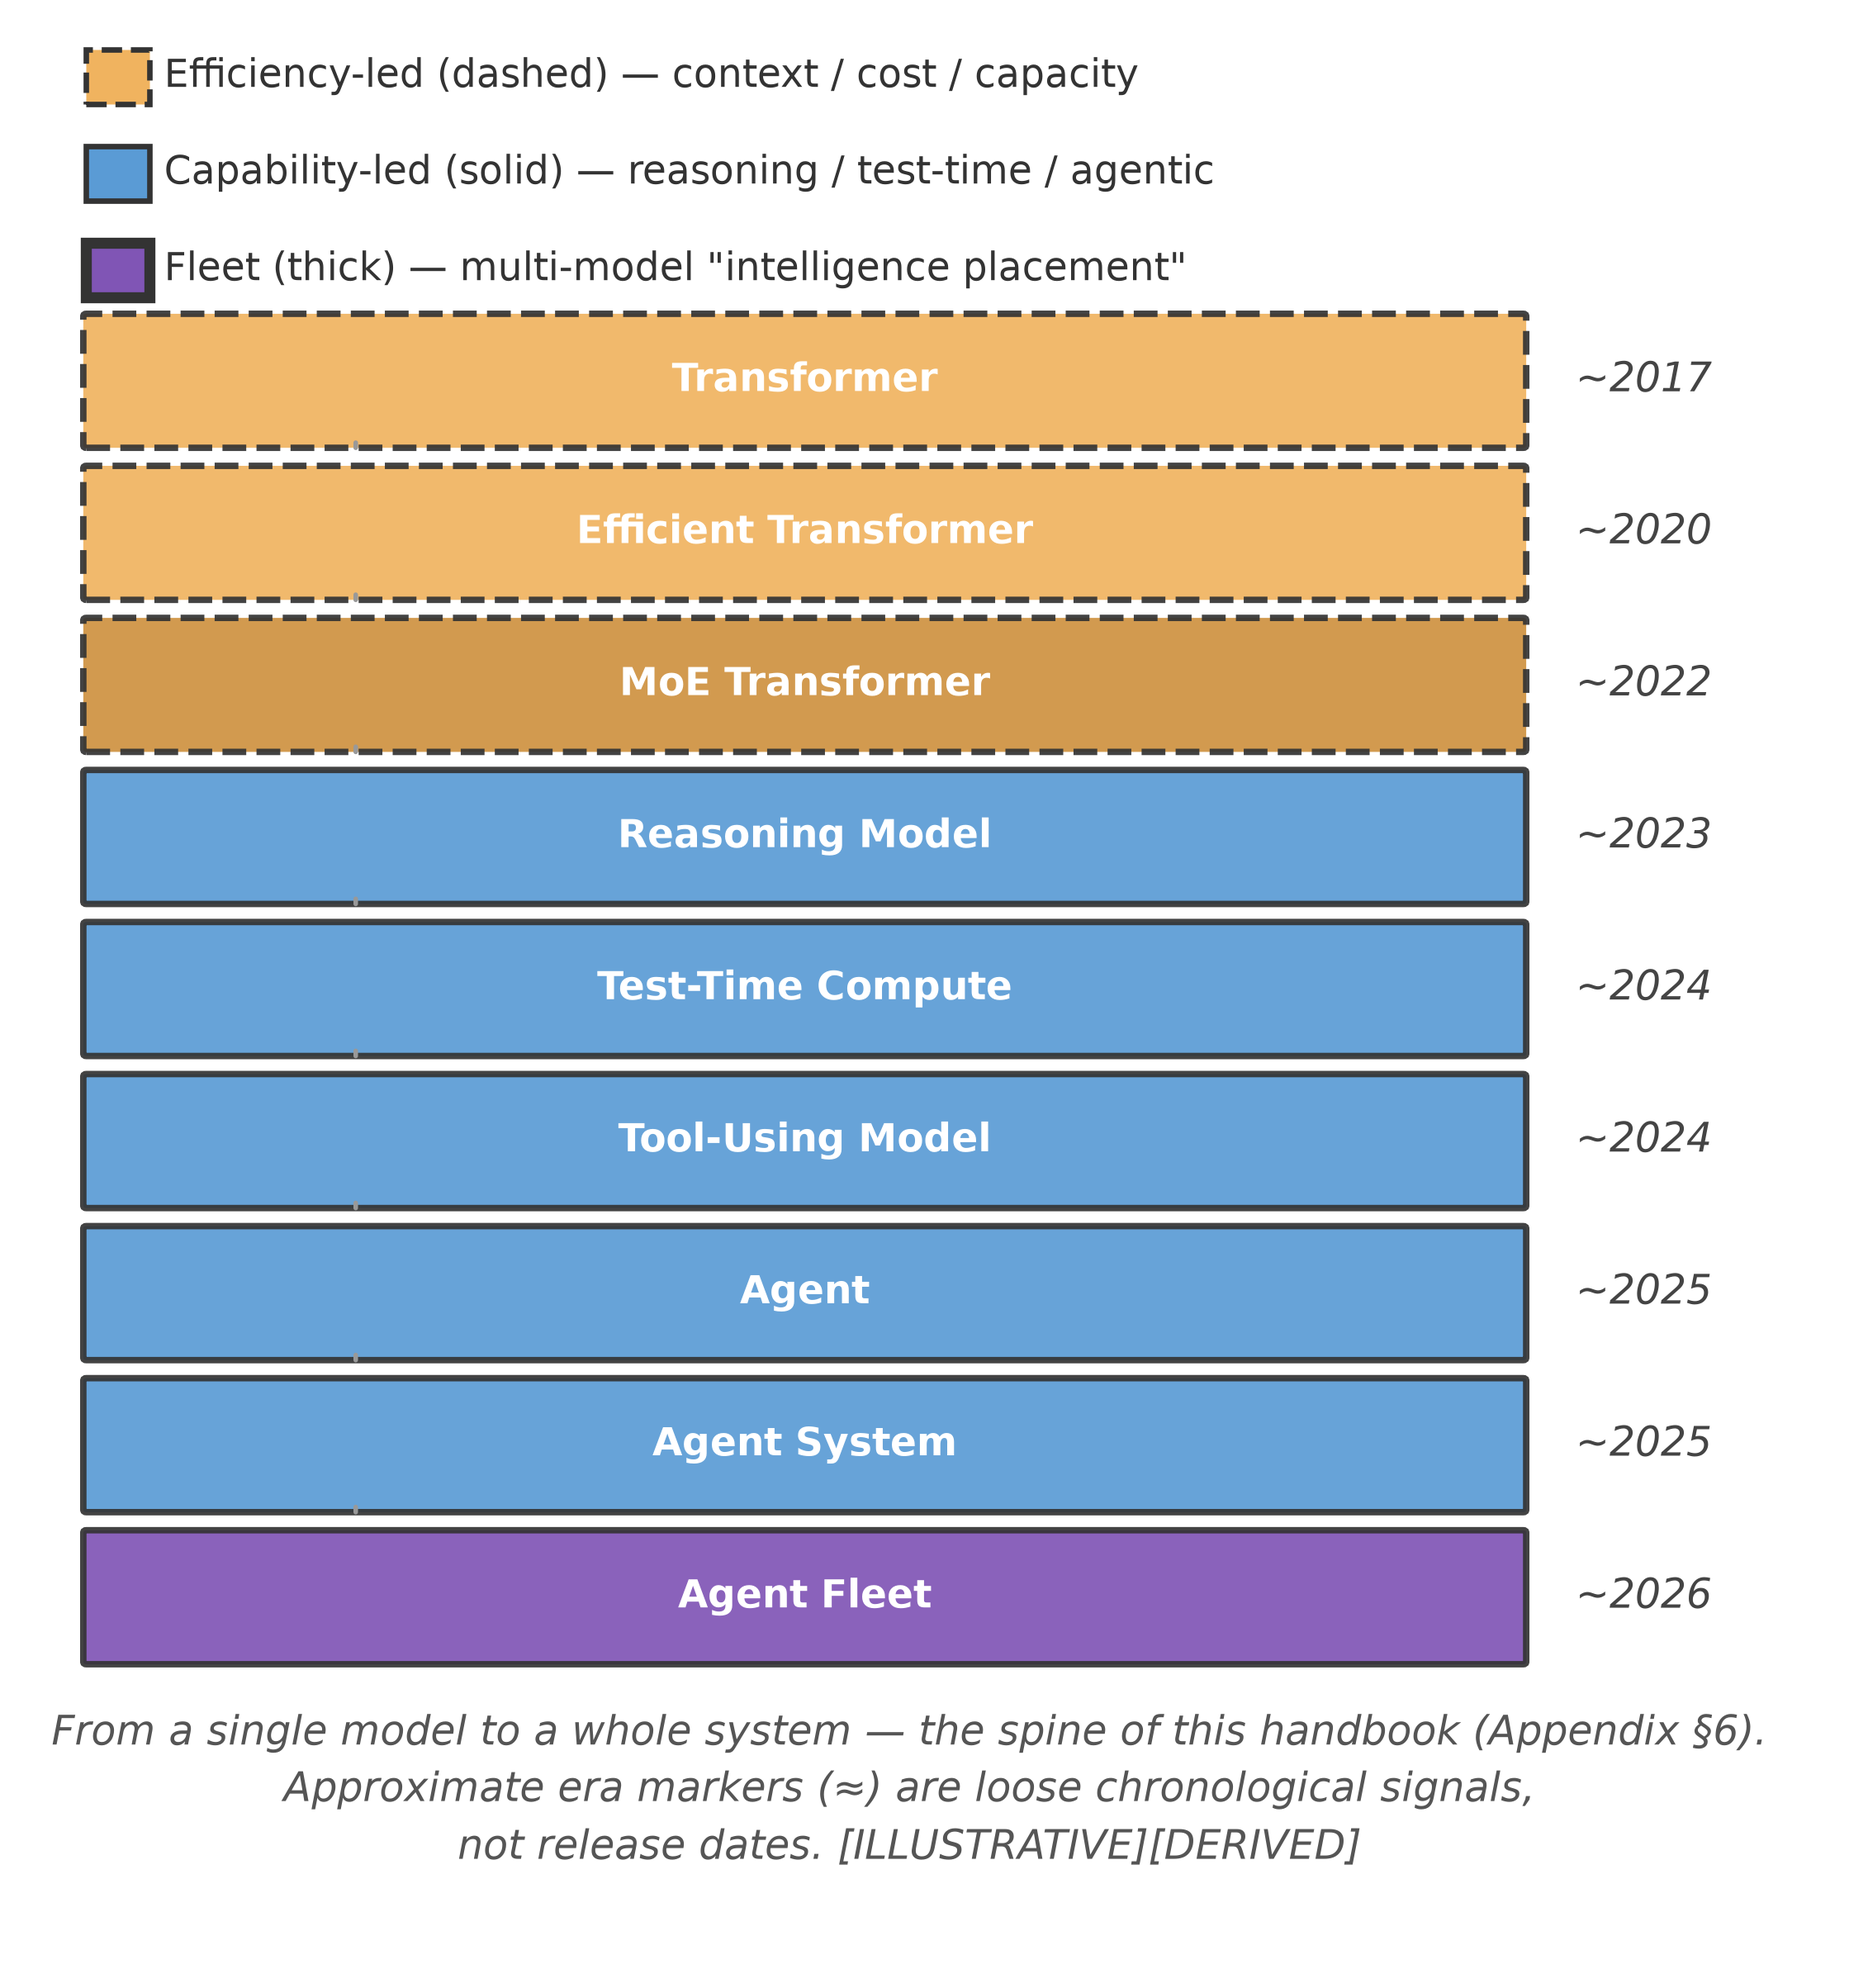
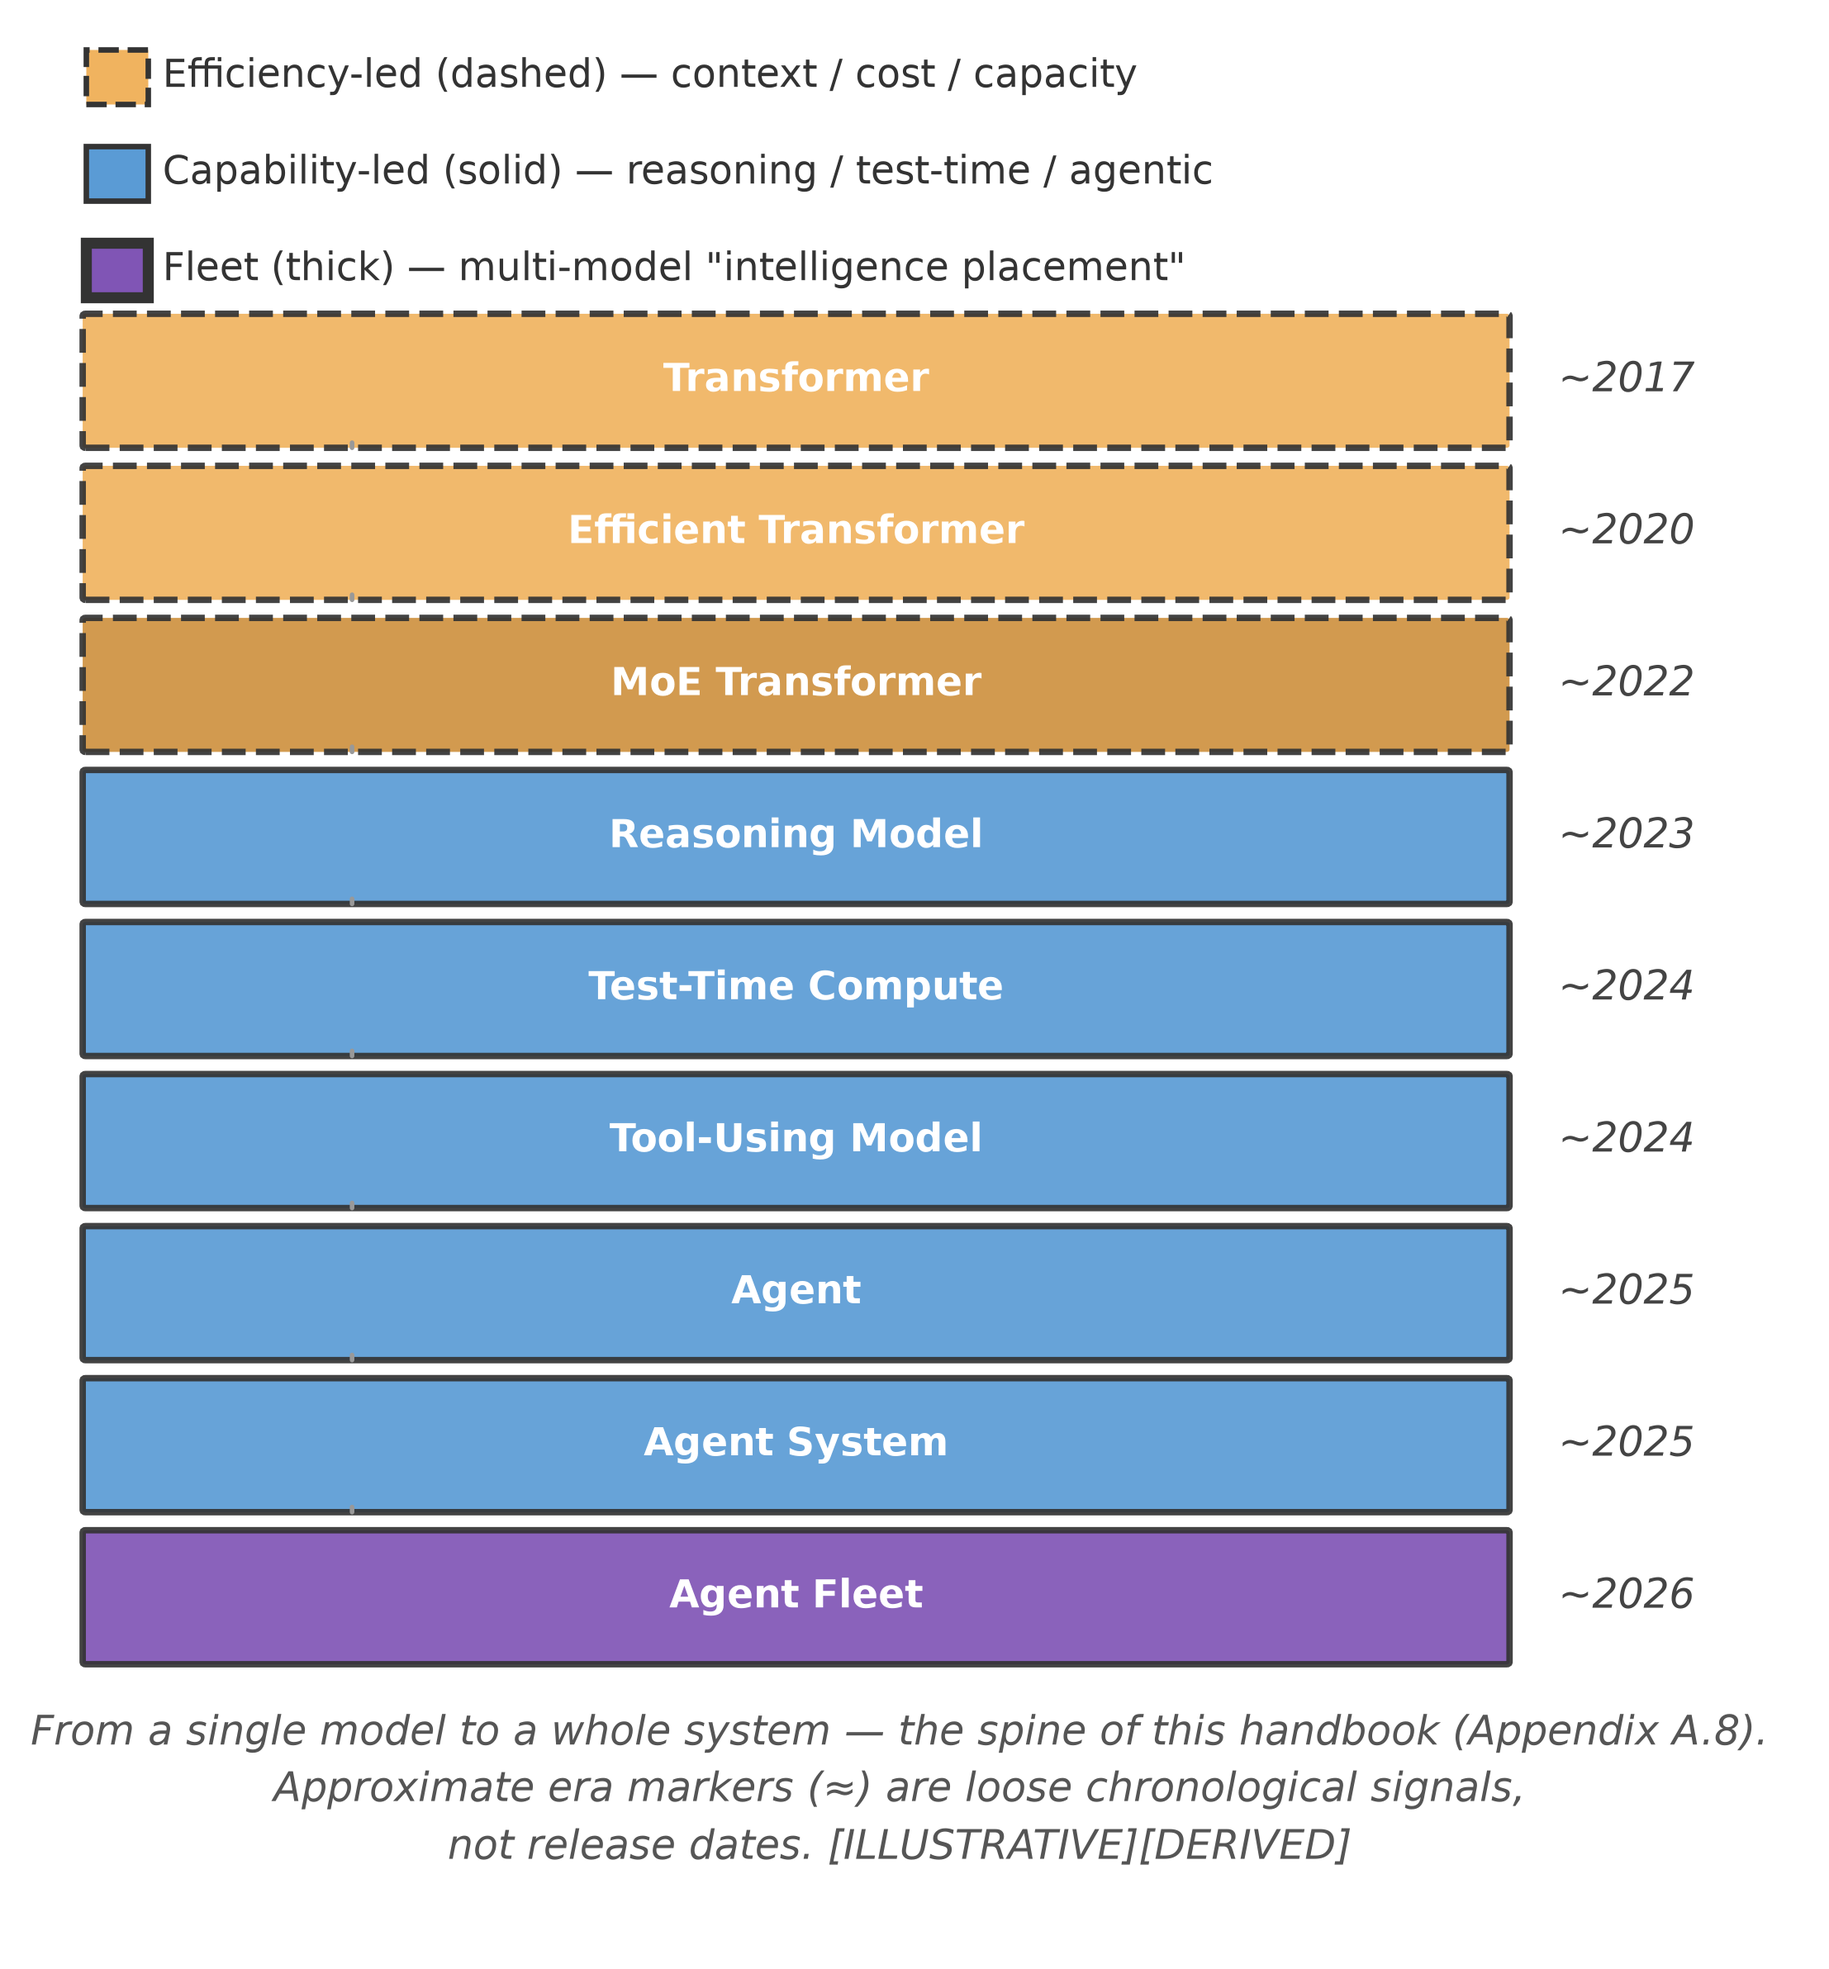
Loop3: Fig A.3 in-figure ref (Appendix 6 -> Appendix A.8); regen min 8.5pt

diff --git a/render/fig_2703.py b/render/fig_2703.py
@@ -57,7 +57,7 @@ y_top = n*row_h + 0.9
 y_bottom = y - 1.0
 ax.set_ylim(y_bottom, y_top)
 
-ax.text(5.9, y-0.35, 'From a single model to a whole system \u2014 the spine of this handbook (Appendix \u00a76).\n'
+ax.text(5.9, y-0.35, 'From a single model to a whole system \u2014 the spine of this handbook (Appendix A.8).\n'
                     'Approximate era markers (\u2248) are loose chronological signals,\n'
                     'not release dates. [ILLUSTRATIVE][DERIVED]',
         fontsize=8.8, fontstyle='italic', color='#555', ha='center', linespacing=1.4)
